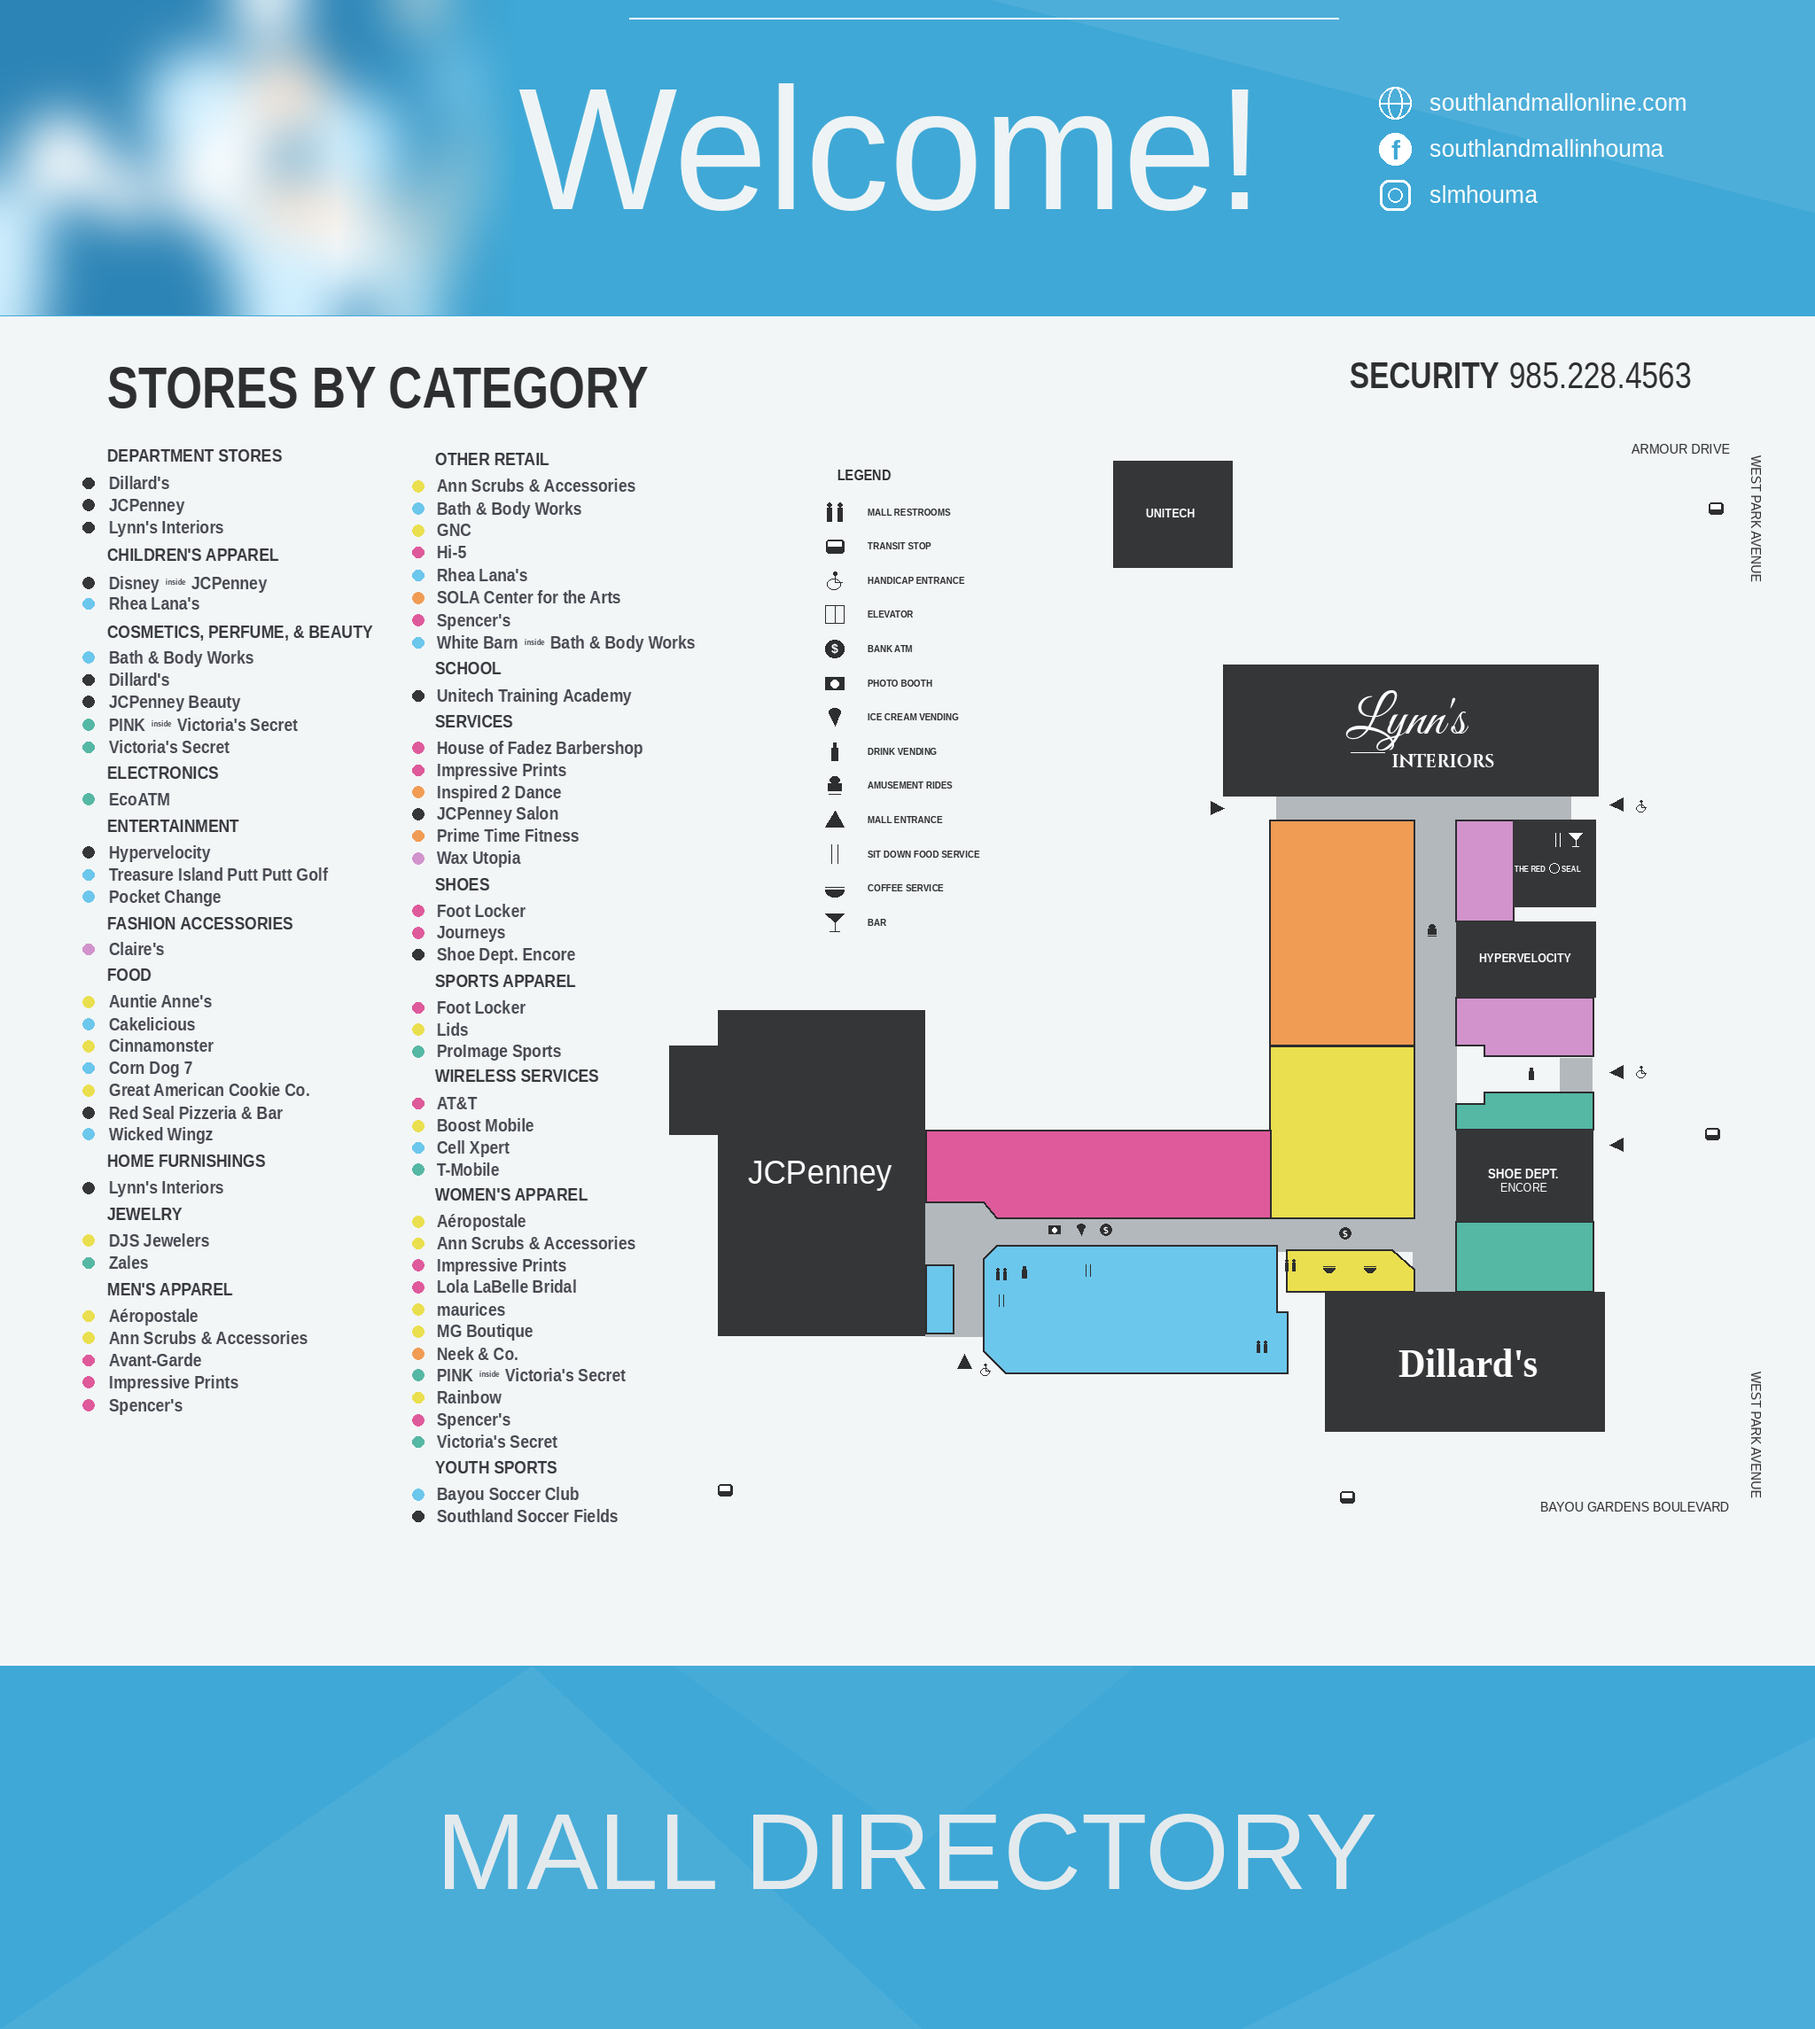
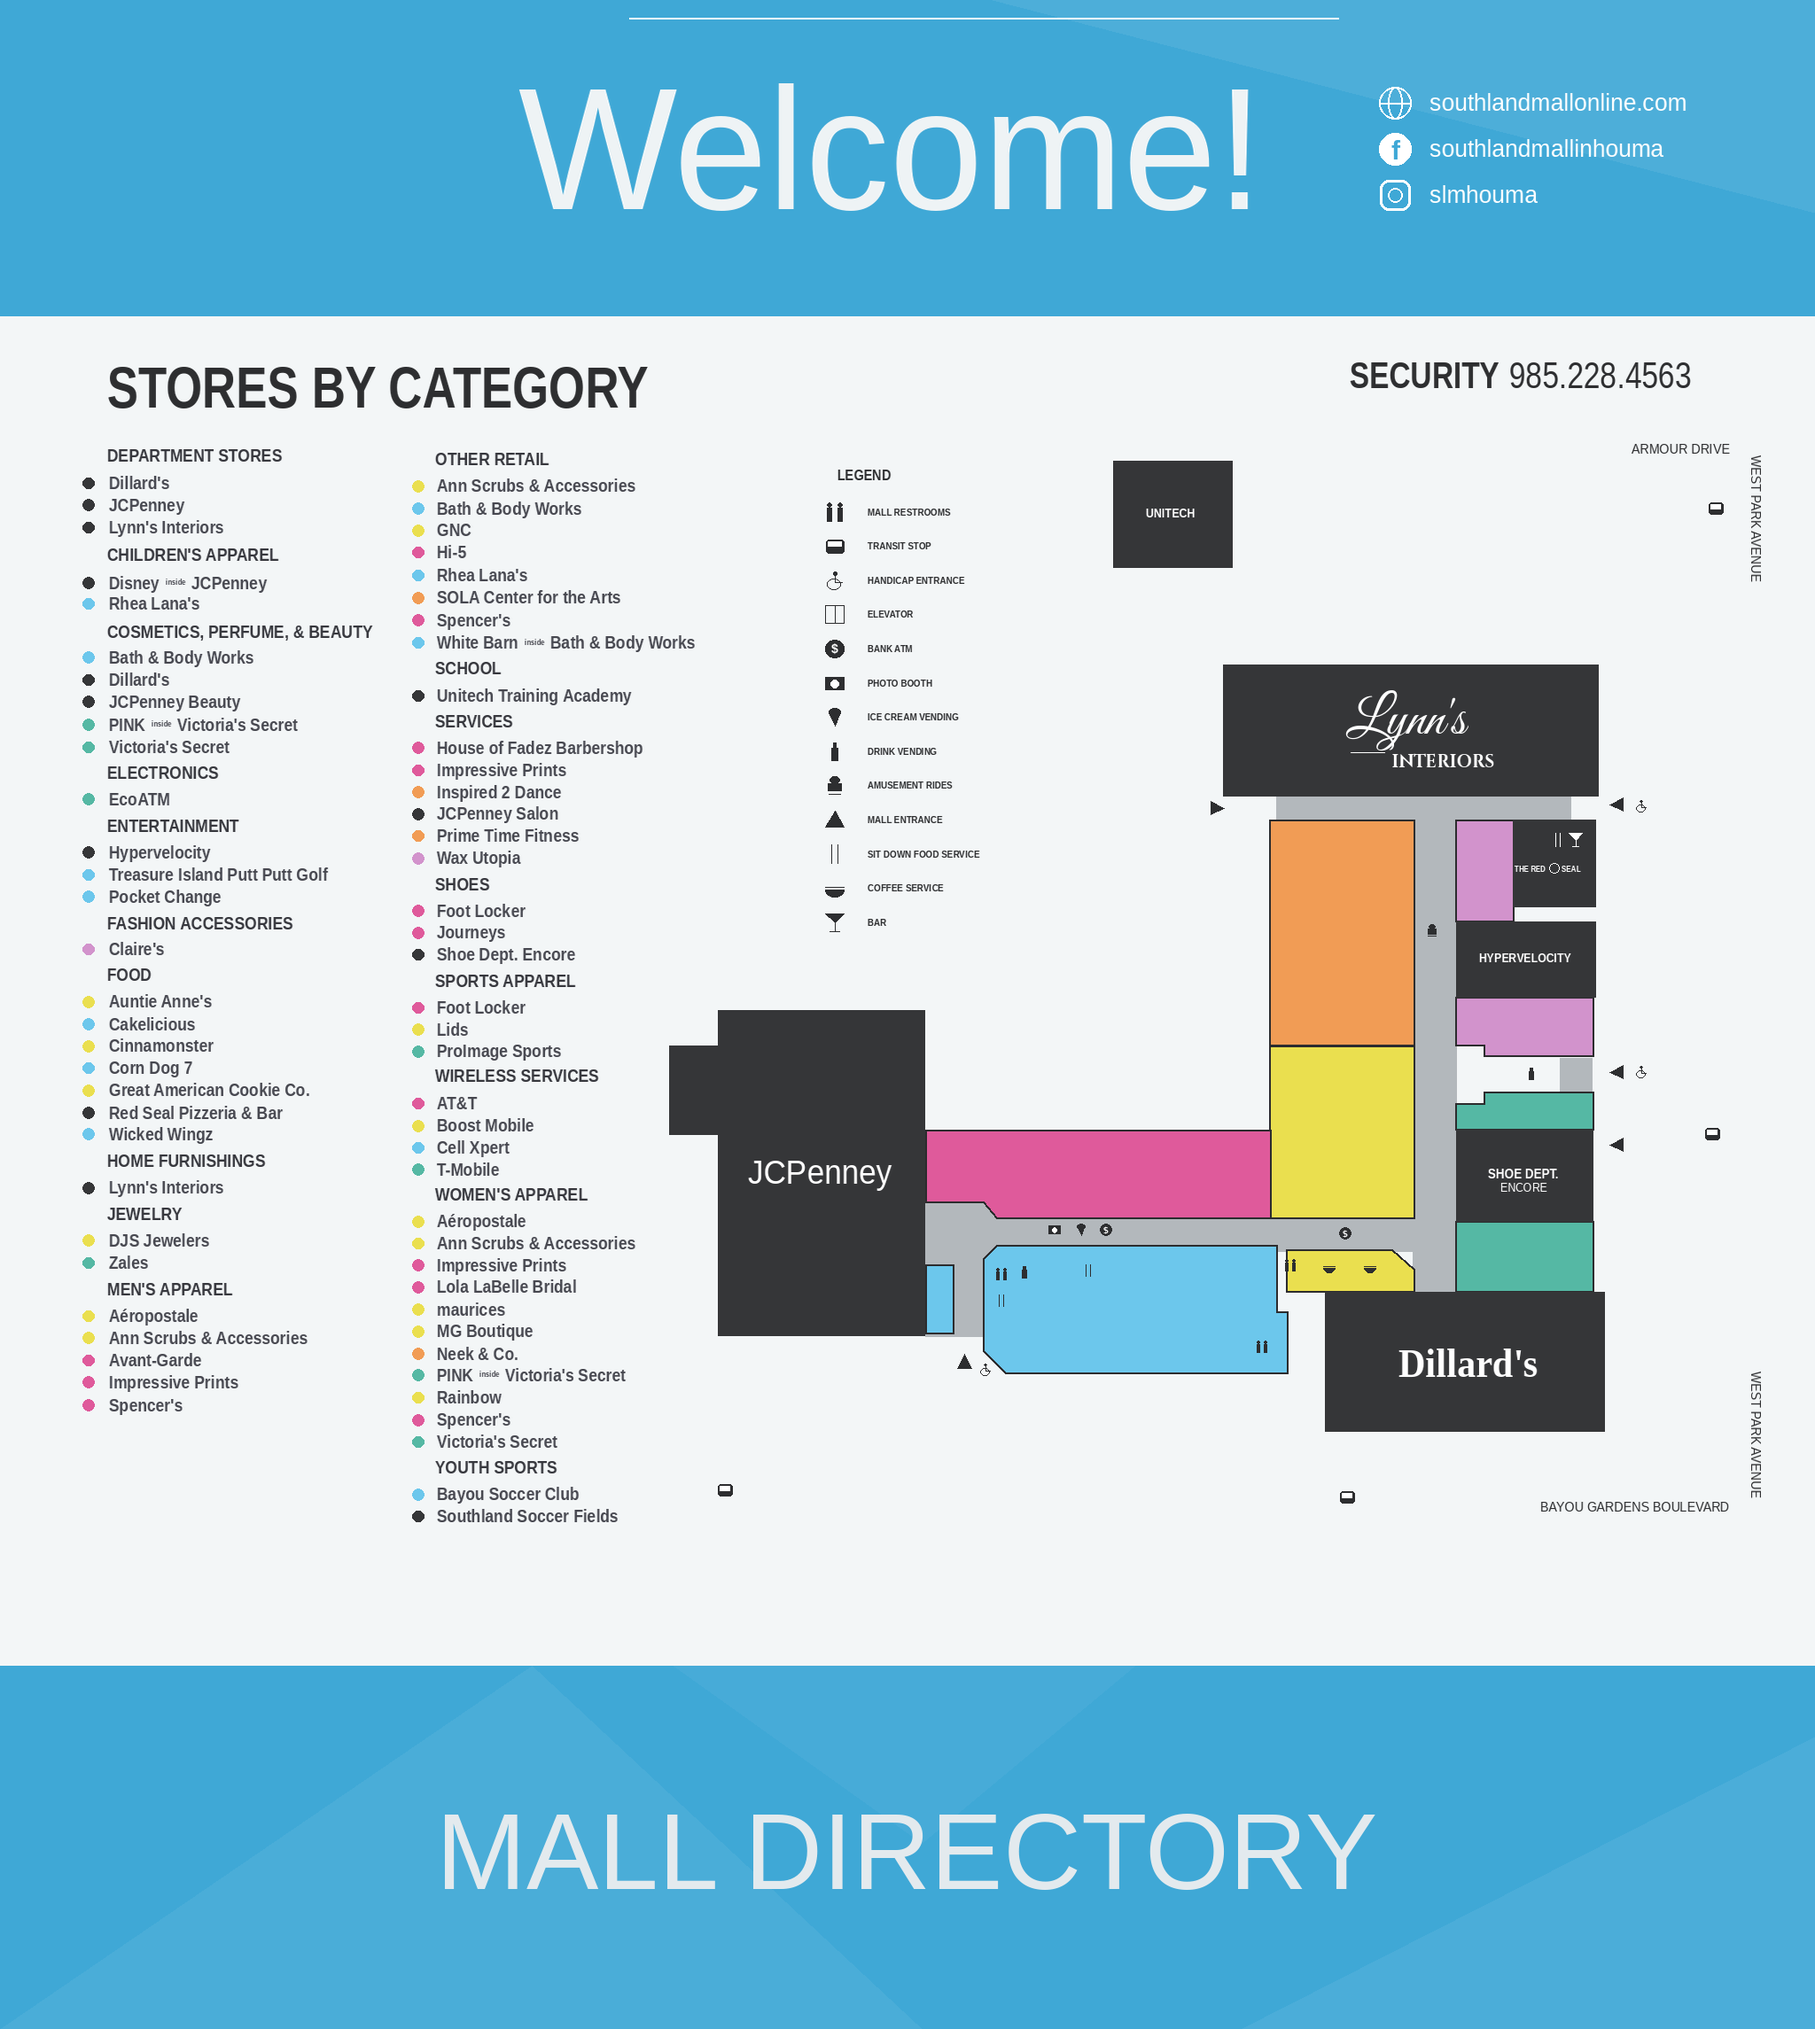
fix: 2026 directory panel without the photo stand-in (plain cyan band)
Follows design/godot-directory.md (Steven, Nov 1).

Claude-Session: https://claude.ai/code/session_01N4y2z8YeoKPVGKt9NrWGB8

Changed region(s): [[0.0, 0.0, 0.2812, 0.155]]

diff --git a/prototypes/godot-mall/project/tools/stores/directory/paint_dir.py b/prototypes/godot-mall/project/tools/stores/directory/paint_dir.py
@@ -8,8 +8,8 @@ Writes (2048 x 2290 px; the lit art is 1.02 x 1.14 m, kiosk.gd ART_W / ART_H):
   tex/dir/panel_2026.png  the real 2026 directory, redrawn from IMG_4455 (Oct 23 2026, straightened):
                           every line of STORES BY CATEGORY with its dot colour, the LEGEND, the map
                           blocks, logos and roads at the photo's positions. The one thing not copied
-                          is the stock portrait of a woman at top left (not ours to reproduce): a
-                          soft blue bokeh stands in its place.
+                          is the stock portrait of a woman at top left (not ours to reproduce): the
+                          plain cyan band runs through there instead (Steven, Nov 1: no stand-in).
   tex/dir/panel_1995.png  the same layout "less modern" (Steven, Nov 1), after the mall's own March
                           1994 Merchant List & Map: the fan logo, numbered stores in category boxes,
                           the floor plan from the game's 1995 map, special locations A-G.
@@ -279,26 +279,6 @@ def tri(d, x, y, pointing, col=INK, s=5.0):
     d.polygon(pts, fill=col)
 
 
-def bokeh(img, box):
-    """A soft blue photo stand-in (circles of light) where the real panel has a stock portrait."""
-    x0, y0, x1, y1 = [int(v * K) for v in box]
-    layer = Image.new("RGBA", (x1 - x0, y1 - y0), (44, 132, 182, 255))
-    dl = ImageDraw.Draw(layer)
-    rnd = random.Random(2026)
-    for i in range(22):
-        cx, cy = rnd.uniform(0, x1 - x0), rnd.uniform(0, y1 - y0)
-        r = rnd.uniform(14, 34) * K
-        c = rnd.choice([(255, 255, 255), (210, 240, 255), (255, 232, 214)])
-        dl.ellipse([cx - r, cy - r, cx + r, cy + r], fill=c + (rnd.randint(25, 60),))
-    layer = layer.filter(ImageFilter.GaussianBlur(14 * K))
-    # fade into the band on the right
-    mask = Image.new("L", layer.size, 255)
-    fw = int(layer.width * 0.35)
-    for i in range(fw):
-        ImageDraw.Draw(mask).line([(layer.width - fw + i, 0), (layer.width - fw + i, layer.height)], fill=int(255 * (1 - i / fw)))
-    img.paste(layer, (x0, y0), mask)
-
-
 def list_lines(img, d, col, xdot, xtxt, hot, stores_by_name):
     fh = font("bold", 10.2)
     fi = font("bold", 10.0)
@@ -340,7 +320,6 @@ def panel_2026(data):
                    ([(700, 1145), (1024, 980), (1024, 1145)], 16), ([(380, 940), (640, 940), (520, 1040)], 10)]:
         fd.polygon([P(*p) for p in pts], fill=(255, 255, 255, a))
     img.alpha_composite(face)
-    bokeh(img, (0, 0, 292, 178))
     d = ImageDraw.Draw(img)
     d.line([P(355, 10), P(755, 10)], fill=(255, 255, 255, 150), width=int(1.3 * K))
     text(img, 292, 118, "Welcome!", font("reg", 98), hexc("#eef3f5"), sx=0.97)

diff --git a/design/godot-directory.md b/design/godot-directory.md
@@ -87,9 +87,9 @@ A single-sided totem: the backs are plain cream (IMG_4484 f068).
     `#deeaf0` in the photo).
   - **Type:** Liberation Sans (Arial / Helvetica metrics, OFL; in `tools/stores/directory/fonts/`)
     squeezed horizontally to match the sign's condensed type.
-  - **Not copied:** the stock portrait of a woman at top left is not ours to reproduce; a soft
-    blue bokeh stands in its place. Steven can supply a replacement picture if he wants something
-    there.
+  - **Not copied:** the stock portrait of a woman at top left is not ours to reproduce. There is
+    no stand-in either (Steven, Nov 1: "remove the soft blue blur altogether"); the plain cyan band
+    runs through there.
   - **Check:** `production/qa/evidence/wsA-panel-2026-vs-photo.jpg`, the straightened photo left,
     the redraw right.
 - **1995:** Steven, "pretty similar to the current one, just less modern".
